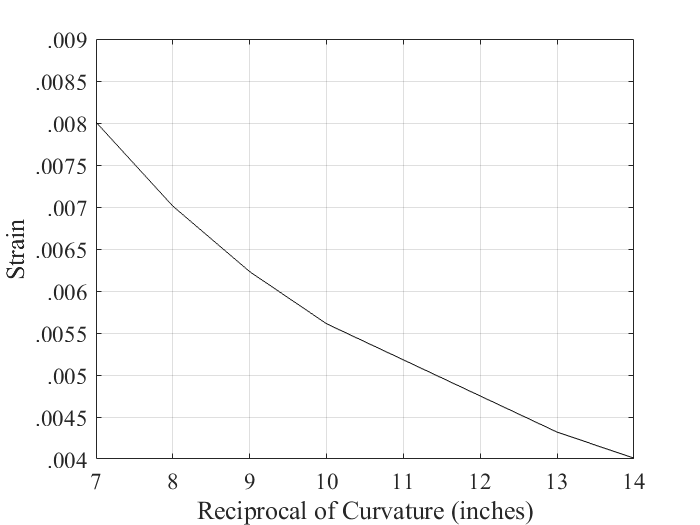
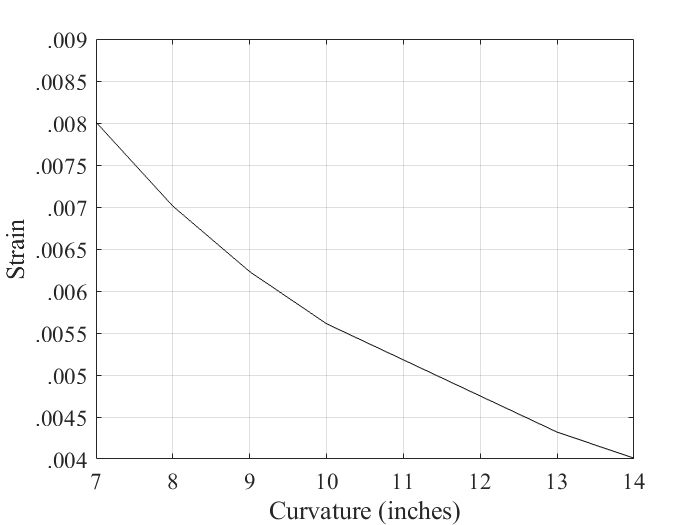
added lab 1 files

Changed region(s): [[0.27, 0.9448, 0.78, 1.0]]

diff --git a/AAE20401/Lab1Graphs.m b/AAE20401/Lab1Graphs.m
@@ -23,7 +23,7 @@ strainWheat = [.00801,.00701,.00623,.00561,.00432,.00401];
 % set(gca,'FontName','Times');
 % set(gca,'FontSize',14);
 
-plot(radii,strainWheat,'k');
+plot(radiiR,strainWheat,'k');
 yticks([.003 .0035 .004 .0045 0.005 .0055 .006 .0065 .007 .0075 .008 .0085 .009 .0095])
 yticklabels({'.003','.0035','.004','.0045','.005', '.0055' ,'.006' ,'.0065', '.007' ,'.0075' ,'.008' ,'.0085' ,'.009' ,'.0095'});
 xlabel("Reciprocal of Curvature (inches)");
@@ -32,5 +32,5 @@ grid on
 set(gca,'FontName','Times');
 set(gca,'FontSize',14);
 
-% mdl = fitlm(radiiR,strain);
-% mdl.Rsquared.Ordinary
+mdl = fitlm(radiiR,strainWheat);
+mdl.Rsquared.Ordinary
